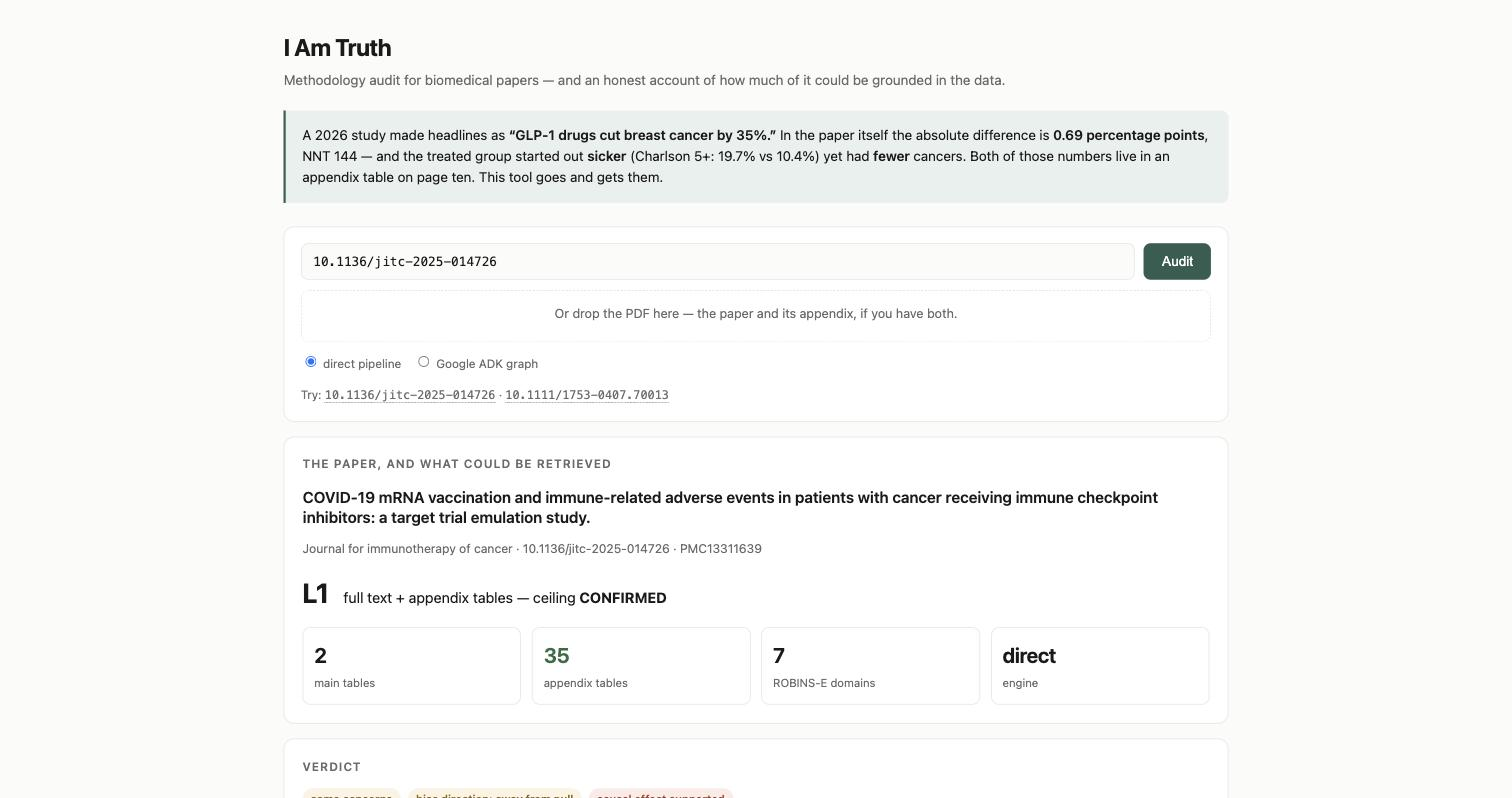
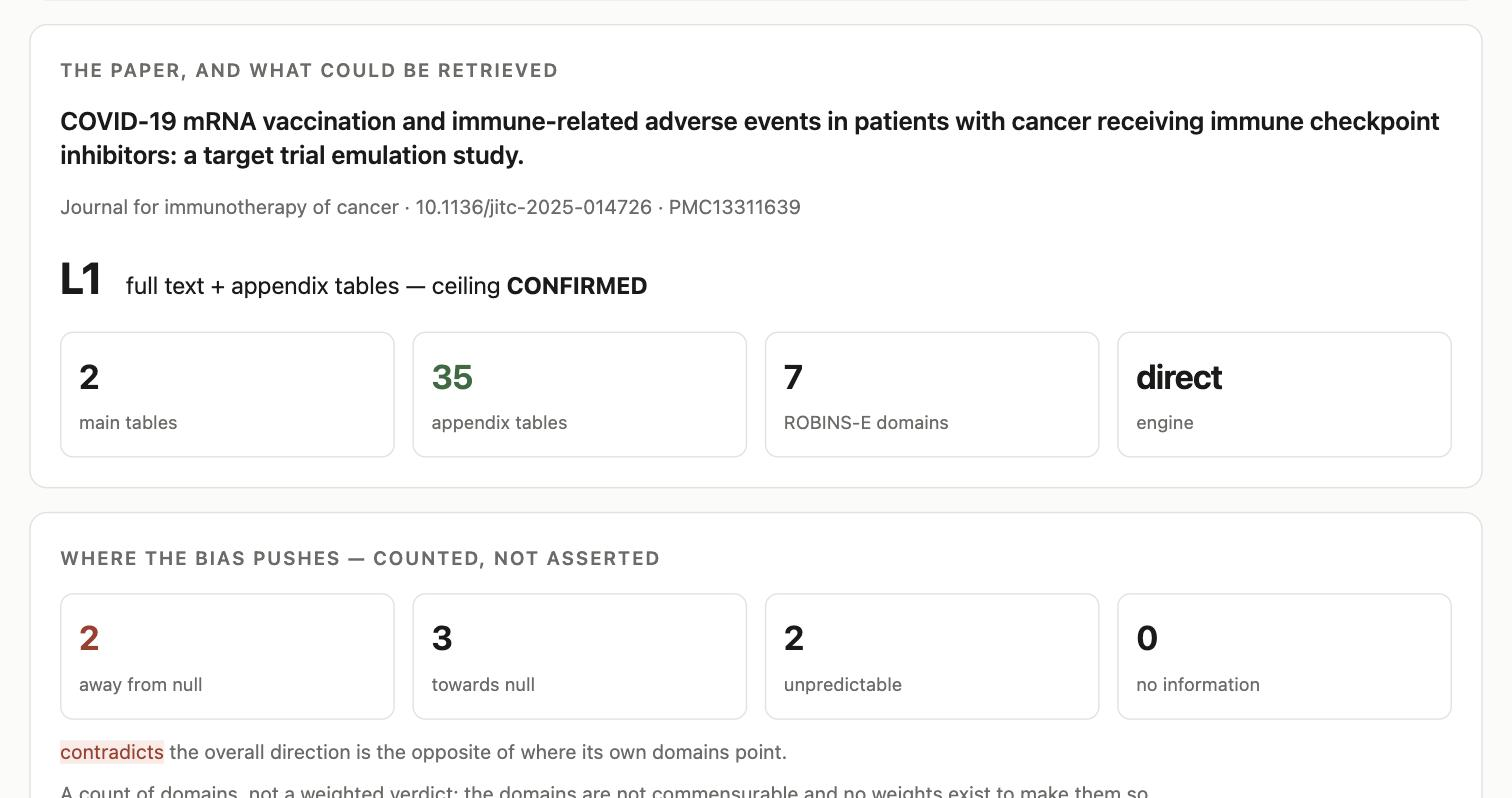
docs: перемеренные цифры, новые скриншоты, схема и план
Сервис передеплоен (ревизия 00013). README и docs/07-architecture.md приведены к
тому, что сервис реально делает: пересчёт функцией с указанием основания, счёт
направлений, постоянный id разбора и бриф. Схема пересобрана на английском.

Цифры сняты заново с живого сервиса через браузер (F-59): L1, 544 числа, 438 с
меткой, 0 не найдено, 0 инверсий; ARD 9.8919 п.п. и NNH 10.1 функцией против 9.89
и 10.11 у модели — оба match. Скриншоты сделаны с той же ревизии.

Свод направлений в первом же боевом прогоне поймал противоречие: общий вывод
away_from_null против трёх доменов towards_null и двух away_from_null.

Разведены два случая в direction.py: «unpredictable» — названное, но
ненаправленное направление (not_comparable), молчание модели — not_stated.

Claude-Session: https://claude.ai/code/session_01NF8YNCYMKy4ShMxtWxwnsW

diff --git a/app/static/index.html b/app/static/index.html
@@ -272,6 +272,7 @@ function render(d){
       consistent: "the overall direction matches where its own domains point",
       contradicts: "the overall direction is the opposite of where its own domains point",
       unsupported: "an overall direction is claimed, but the domains do not favour either way",
+      not_comparable: "the overall verdict is not a direction, so the count has nothing to compare against",
       not_stated: "no overall direction was given"
     }[ds.agreement] || "";
     h += `<section>
@@ -283,7 +284,7 @@ function render(d){
         <div class="cell"><b>${c2.no_information||0}</b><span>no information</span></div>
       </div>
       <p class="muted" style="margin:12px 0 0">
-        <span class="pill ${cls}">${esc(ds.agreement)}</span> ${esc(words)}.</p>
+        <span class="pill ${cls}">${esc((ds.agreement||"").replace(/_/g," "))}</span> ${esc(words)}.</p>
       <p class="muted" style="margin:8px 0 0">${esc(ds.note)}</p>
     </section>`;
   }

diff --git a/truth/direction.py b/truth/direction.py
@@ -26,7 +26,9 @@ def summarise(findings: dict) -> dict | None:
       `contradicts`  — общее направление противоположно преобладающему;
       `unsupported`  — общее направление названо, но по доменам перевеса нет
                        (поровну или направленных доменов нет вовсе);
-      `not_stated`   — общего направления модель не дала.
+      `not_comparable` — общее направление названо, но оно не направленное
+                       (`unpredictable` / `no_information`), сравнивать не с чем;
+      `not_stated`   — общего направления модель не дала вовсе.
     """
     domains = (findings or {}).get("domains") or []
     if not domains:
@@ -46,7 +48,11 @@ def summarise(findings: dict) -> dict | None:
     dominant = "away_from_null" if a > t else "towards_null" if t > a else None
 
     overall = ((findings or {}).get("overall") or {}).get("direction")
-    if overall not in ("away_from_null", "towards_null"):
+    if overall in ("unpredictable", "no_information"):
+        # Направление названо, но оно не направленное. Это не молчание модели и не
+        # согласие: сравнивать счёт по доменам не с чем.
+        agreement = "not_comparable"
+    elif overall not in ("away_from_null", "towards_null"):
         agreement = "not_stated"
     elif dominant is None:
         agreement = "unsupported"

diff --git a/truth/brief.py b/truth/brief.py
@@ -68,9 +68,16 @@ def render(report: dict) -> str:
         L.append(f"| {c.get('away_from_null', 0)} | {c.get('towards_null', 0)} | "
                  f"{c.get('unpredictable', 0)} | {c.get('no_information', 0)} |")
         L.append("")
-        L.append(f"The model's overall direction is **{ds.get('model_overall') or 'not stated'}**; "
-                 f"against its own domains this is **{ds.get('agreement')}**. "
-                 f"{ds.get('note', '')}")
+        WORDS = {
+            "consistent": "which matches where its own domains point",
+            "contradicts": "which is the opposite of where its own domains point",
+            "unsupported": "and the domains favour neither way",
+            "not_comparable": "which is not a direction, so there is nothing to compare",
+            "not_stated": "— it gave none",
+        }
+        L.append(f"The model's overall direction is "
+                 f"**{ds.get('model_overall') or 'not stated'}**, "
+                 f"{WORDS.get(ds.get('agreement'), '')}. {ds.get('note', '')}")
         L.append("")
 
     # 3. Пересчёт функцией

diff --git a/tests/test_direction.py b/tests/test_direction.py
@@ -51,6 +51,12 @@ silent = summarise(f(["away_from_null"], None))
 check("молчание модели — отдельный случай, не согласие",
       silent["agreement"] == "not_stated")
 
+# «unpredictable» — это названное направление, но ненаправленное: сравнивать не с
+# чем, и путать это с молчанием нельзя.
+check("«unpredictable» отличается от молчания",
+      summarise(f(["away_from_null", "towards_null"], "unpredictable"))["agreement"]
+      == "not_comparable")
+
 check("мусорное направление считается отдельно",
       summarise(f(["вверх", "away_from_null"], "away_from_null"))["unclassified"] == 1)
 check("без доменов свод не выдумывается", summarise({"overall": {}}) is None)

diff --git a/README.md b/README.md
@@ -65,7 +65,7 @@ they are put side by side.
 https://i-am-truth-242136767009.us-central1.run.app
 ```
 
-![The audit page: a DOI goes in, the evidence level and what was retrieved come out](docs/img/ui-report.jpg)
+![The audit page: a DOI goes in, the evidence level and what was retrieved come out, then the direction of bias counted across the seven domains](docs/img/ui-report.jpg)
 
 Paste a DOI, or drop the PDF and its appendix if the paper is not open. The page reports,
 in this order: **the evidence level actually reached** and the confidence ceiling that
@@ -84,7 +84,9 @@ same report is downloadable as a one-page Markdown brief at `/audits/<id>/brief.
 the same order as the page: what the audit stands on, where the bias points by a count of
 domains, what the function recomputed, and only then the prose.
 
-![Verification block: 389 numbers confirmed with their label, 2 not found, 0 group inversions](docs/img/ui-verification.jpg)
+![The recomputation block — 9.8919 pp and NNH 10.1 computed by a function, the model's own figures beside them marked "model agrees" — and the verification block: 438 numbers confirmed with their label, 0 not found, 0 group inversions](docs/img/ui-verification.jpg)
+
+![The report on the record: a permanent audit id and a link to the one-page brief](docs/img/ui-record.jpg)
 
 The same audit is available over HTTP:
 
@@ -100,15 +102,26 @@ curl -X POST $URL/analyze \
 
 That DOI is an open-access paper: the service pulls the JATS full text **and 35 appendix
 tables**, runs a seven-domain ROBINS-E assessment across three agents, and back-checks
-every number it reports against the source. Measured on the live service, 28.08:
-**52 seconds, level L1, 598 numbers checked — 478 confirmed together with their label,
-3 unverified, 0 group inversions** (F-51).
+every number it reports against the source. Measured on the live service through the
+browser, 29.08, revision 00013:
+**level L1, 544 numbers checked — 438 confirmed together with their label, 0 unverified,
+0 group inversions**; the absolute risk difference recomputed by a function from the
+2×2 counts (9.8919 pp, NNH 10.1) and agreeing with the model's own figures; and the
+whole thing kept at
+[`/audits/audit-20260828-225453-cefe10`](https://i-am-truth-242136767009.us-central1.run.app/audits/audit-20260828-225453-cefe10).
 
-The earlier figure here read "102 numbers verified". It was not wrong, it was measured
-with a broken ruler: until F-51 a number's label was taken from the JSON path of the
-model's own answer, so almost nothing could match and the verifier was nearly blind.
-Re-measured, not rewritten — the same rule this project applies to other people's
-numbers.
+That same run is also where the direction tally earned its place: the model's overall
+verdict came out `away_from_null` while three of its own domains pointed the other way
+and only two pointed with it. The report says `contradicts` instead of quietly printing
+the verdict.
+
+These figures have been re-measured twice rather than rewritten, and both times the
+reason was a defect in the instrument, not in the audit. First the label of a number was
+taken from the JSON path of the model's own answer, so almost nothing could match and the
+verifier was nearly blind (F-51). Then the marker of a control group was the bare
+substring `control`, which matched `glycemic control` and produced accusations of
+inverted groups where no control arm was mentioned at all — 13 of them, now 0 (F-56).
+The same rule this project applies to other people's numbers.
 
 ### When the paper is not open
 

diff --git a/docs/02-verified-facts.md b/docs/02-verified-facts.md
@@ -1768,3 +1768,27 @@ ctx:    "…missing rates of the hba1c were 90.52%, 91.79% … among glp-1 ras,
 месяцев, и 0.0, когда упоминания нет. Пункт производится
 `prompt_time_biases.md`, который правкой не затрагивался, — то есть колебание к
 изменению промпта отношения не имеет.
+
+## F-59 · Ревизия 00013 в облаке: все четыре правки ночи работают на живом сервисе
+
+**Дата:** 29.08.2026, ~00:55 CEST. **Способ:** браузер против
+`https://i-am-truth-242136767009.us-central1.run.app`, DOI `10.1136/jitc-2025-014726`,
+движок `direct`. Разбор поднимается по ссылке:
+`/audits/audit-20260828-225453-cefe10`.
+
+| Что проверялось | Результат |
+|---|---|
+| уровень добычи | L1, 2 основные таблицы + 35 приложенных |
+| сверка чисел | 544 проверено, 438 с меткой, **0 не найдено, 0 инверсий**, 18 без метки |
+| пересчёт функцией | `basis: reported`, `independent: true`, ARD 9.8919 п.п., NNH 10.1, RR 1.2192, E-value 1.736; модель заявила 9.89 и 10.11 → оба `match` |
+| свод направлений | 2 away / 3 towards / 2 unpredictable, общий вывод модели `away_from_null` → **`contradicts`** |
+| хранение | `stored: gcs`, отчёт открывается по постоянному id |
+| бриф | `/audits/{id}/brief.md`, 58 строк, `content-type: text/markdown` |
+
+**Свод направлений сработал по назначению в первом же боевом прогоне:** модель назвала
+общее направление `away_from_null`, тогда как три её собственных домена показывали в
+другую сторону и только два — в ту же. Раньше это противоречие оставалось внутри
+модели, теперь стоит в отчёте отдельной строкой.
+
+Скриншоты сняты с этой же ревизии: `docs/img/ui-report.jpg`,
+`ui-verification.jpg`, `ui-record.jpg`, `ui-progress.jpg`.
